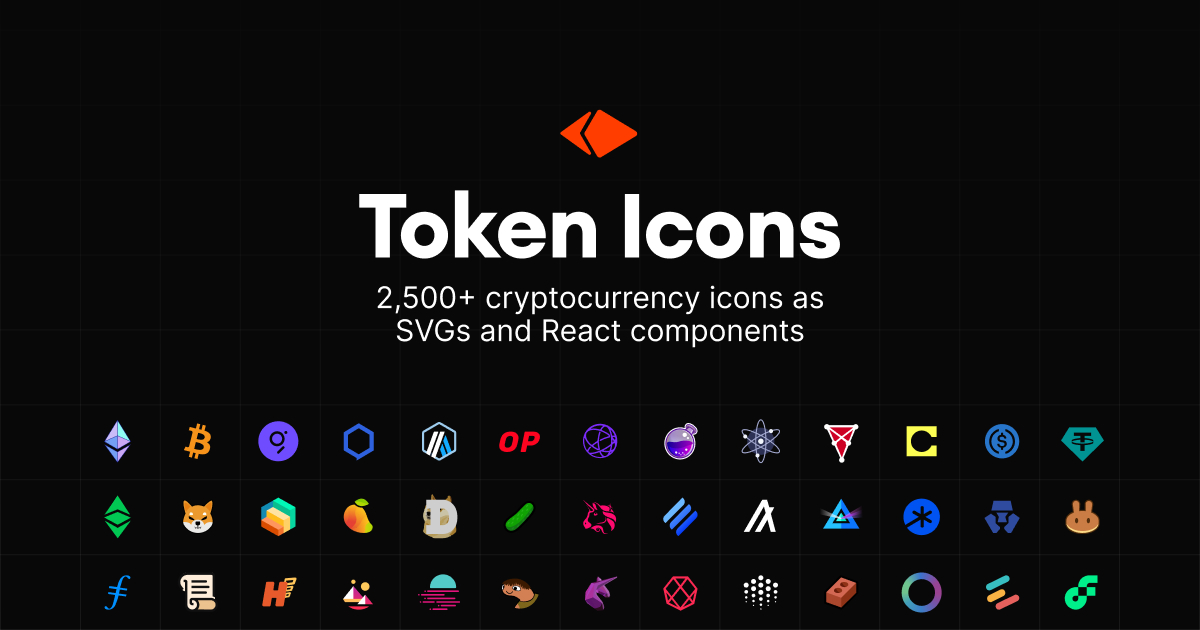
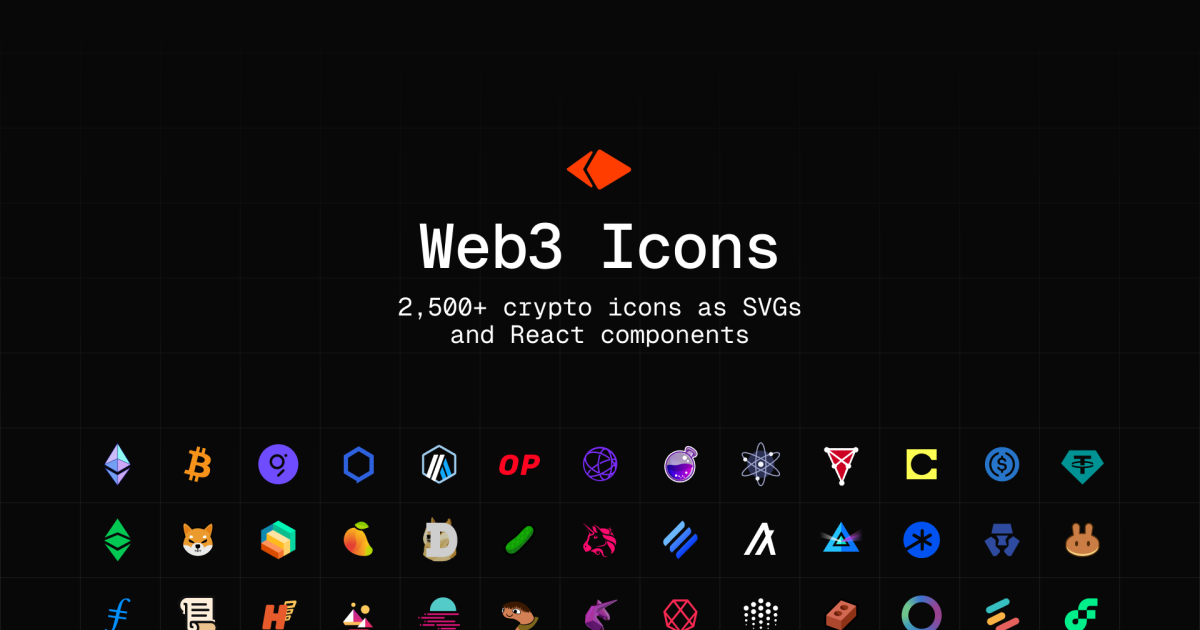
fix: update root og image

diff --git a/README.md b/README.md
@@ -1,4 +1,4 @@
-![Web3 Icons](https://raw.githubusercontent.com/0xa3k5/web3icons/main/apps/figma-plugin/src/assets/cover.png)
+![Web3 Icons](https://web3icons.io/og-image.png)
 
 # Web3 Icons
 
@@ -283,7 +283,6 @@ import { ExchangeIcon } from '@web3icons/react'
 //   "variants": ["branded", "mono"],
 //   "type": "cex"
 // }
-
 ;<ExchangeIcon name="coinbase" size={32} variant="branded" /> // matches the name
 ```
 
